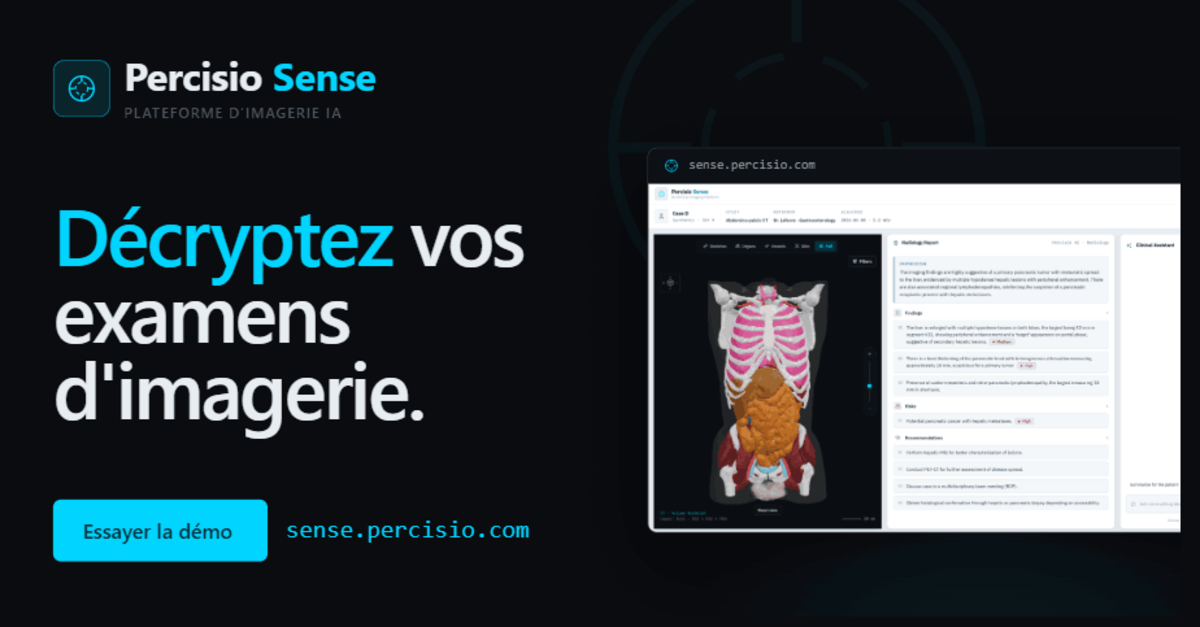
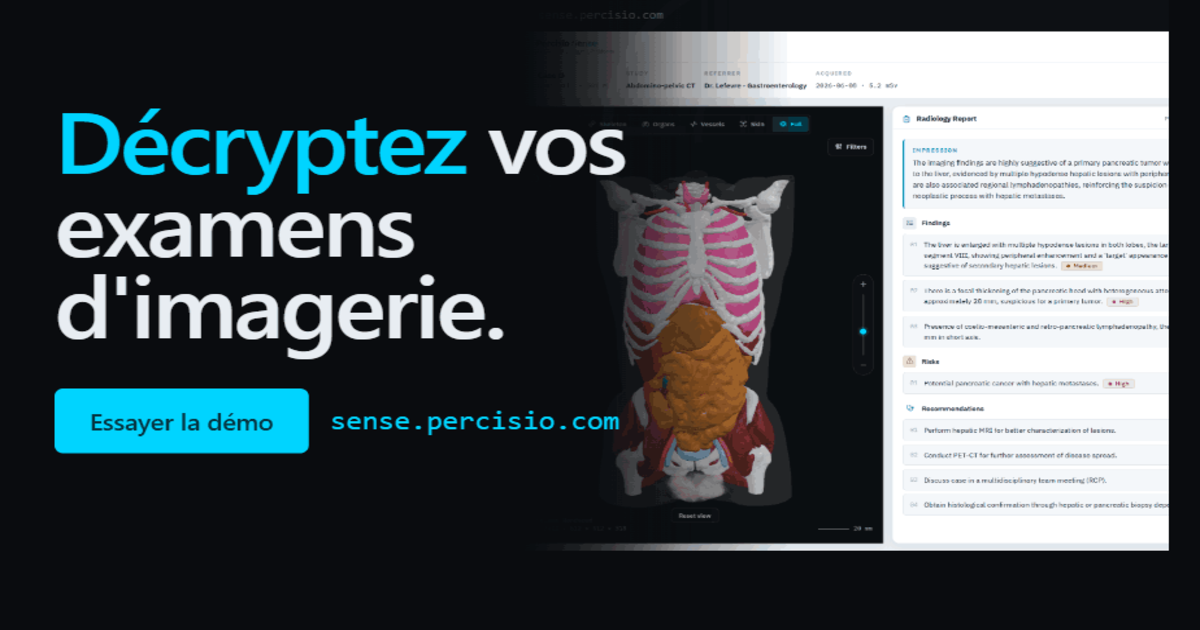
Fix SEO and OG meta tags to improve search and social score
- Replace OG banner with 1200x630 version (fixes LinkedIn minimum size)
- Add meta description, canonical URL, theme-color
- Add og:image:alt, twitter:site, twitter:image:alt
- Add JSON-LD WebApplication structured data
- Add visually-hidden H1 for crawlers

diff --git a/frontend/index.html b/frontend/index.html
@@ -14,7 +14,10 @@
     <link rel="preconnect" href="https://fonts.gstatic.com" crossorigin>
     <link href="https://fonts.googleapis.com/css2?family=IBM+Plex+Mono:wght@400;500;600&family=IBM+Plex+Sans:wght@400;500;600;700&display=swap" rel="stylesheet">
     <link rel="stylesheet" href="https://cdn.jsdelivr.net/npm/@tabler/icons-webfont@3.19.0/dist/tabler-icons.min.css" />
-    <title>Percisio Sense</title>
+    <title>Percisio Sense — Plateforme d'imagerie IA</title>
+    <meta name="description" content="Décryptez vos examens d'imagerie médicale grâce à l'analyse IA avancée de Percisio Sense. Conçu pour les professionnels de santé." />
+    <link rel="canonical" href="https://sense.percisio.com" />
+    <meta name="theme-color" content="#0ea5e9" />
 
     <!-- OpenGraph / LinkedIn -->
     <meta property="og:type" content="website" />
@@ -23,15 +26,37 @@
     <meta property="og:description" content="Décryptez vos examens d'imagerie. Analyse IA avancée pour les professionnels de santé." />
     <meta property="og:image" content="https://sense.percisio.com/og-banner.png" />
     <meta property="og:image:width" content="1200" />
-    <meta property="og:image:height" content="627" />
+    <meta property="og:image:height" content="630" />
+    <meta property="og:image:alt" content="Percisio Sense — Interface d'analyse d'imagerie médicale par IA" />
     <meta property="og:locale" content="fr_FR" />
     <meta property="og:site_name" content="Percisio Sense" />
 
     <!-- Twitter / X card -->
     <meta name="twitter:card" content="summary_large_image" />
+    <meta name="twitter:site" content="@percisio" />
     <meta name="twitter:title" content="Percisio Sense — Plateforme d'imagerie IA" />
     <meta name="twitter:description" content="Décryptez vos examens d'imagerie. Analyse IA avancée pour les professionnels de santé." />
     <meta name="twitter:image" content="https://sense.percisio.com/og-banner.png" />
+    <meta name="twitter:image:alt" content="Percisio Sense — Interface d'analyse d'imagerie médicale par IA" />
+
+    <!-- Structured data -->
+    <script type="application/ld+json">
+    {
+      "@context": "https://schema.org",
+      "@type": "WebApplication",
+      "name": "Percisio Sense",
+      "url": "https://sense.percisio.com",
+      "description": "Décryptez vos examens d'imagerie médicale grâce à l'analyse IA avancée de Percisio Sense. Conçu pour les professionnels de santé.",
+      "applicationCategory": "HealthApplication",
+      "operatingSystem": "All",
+      "inLanguage": "fr-FR",
+      "publisher": {
+        "@type": "Organization",
+        "name": "Percisio",
+        "url": "https://percisio.com"
+      }
+    }
+    </script>
     <style>
       #app-shell {
         display: flex;
@@ -76,6 +101,7 @@
         </div>
       </div>
     </div>
+    <h1 style="position:absolute;width:1px;height:1px;padding:0;margin:-1px;overflow:hidden;clip:rect(0,0,0,0);white-space:nowrap;border:0">Percisio Sense — Plateforme d'imagerie IA</h1>
     <div id="root"></div>
     <script type="module" src="/src/main.jsx"></script>
   </body>
